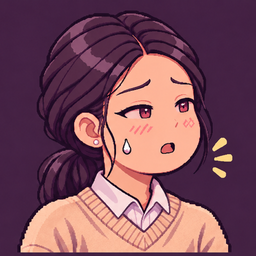
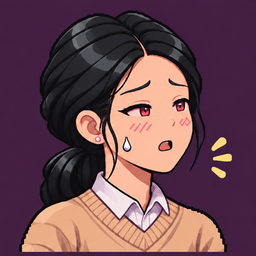
큰 그림을 앉은 모습에 맞추고 강사님 그림체 통일, 대화 시 큰 그림
- 봉경 스프라이트·초상 8장: 검정 머리, 카멜 니트, 갸름한 얼굴·턱선
  (2×2 시트로 한 번에 고쳐 네 표정이 같게)
- 배경: 윤찬 보라 머리 → 검정, 건희 머리를 스프라이트 색으로 (머리 영역만)
- 강사님 장면 그림: 배경 크롭에 직접 그려 넣고 달라진 픽셀만 떼어 얹음
  (배경과 같은 그림체·조명·그림자, 픽셀 자리 일치)
- 강사님에게 말을 걸면 용의자처럼 배경이 어두워지고 큰 그림이 뜸
  (대사창 작은 초상 삭제)
- 디자인 기록 세션 10

diff --git a/components/game/GameScreen.tsx b/components/game/GameScreen.tsx
@@ -63,6 +63,8 @@ export function GameScreen({ view, actions }: { view: GameView; actions: GameAct
   // 사람과 대화하는 동안(질문 입력·생각 중·답변) 그 사람을 화면 가운데 크게 보여 준다.
   const talking = !done && !closeup && !card && !!target && (dialog.kind === "edit" || dialog.kind === "thinking" || dialog.kind === "answer");
   const talker = target ? suspectOf(target) : null;
+  // 강사님처럼 말만 하는 인물: 관찰문 대사창에 큰 그림을 함께 띄운다 (용의자 대화와 같은 모양).
+  const npcFigure = !done && !closeup && !card && dialog.kind === "narrate" ? dialog.figure : undefined;
   const lastMsg = target ? [...view.messages].reverse().find((m) => m.suspectId === target) : undefined;
   const answerMsg = dialog.kind === "answer" ? view.messages.find((m) => m.id === dialog.messageId) : undefined;
   // 방금 받은 답변에 자료나 새 단서 카드가 딸려 왔으면 대사창 위에 물건 모양으로 띄운다.
@@ -140,7 +142,7 @@ export function GameScreen({ view, actions }: { view: GameView; actions: GameAct
       play("tick");
       setCardId(null);
       setTeacherTalks((n) => n + 1);
-      return setDialog({ kind: "narrate", key: `teacher-${Date.now()}`, title: view.scenario.victim, text: TEACHER.lines[teacherTalks % TEACHER.lines.length], image: { src: TEACHER.portrait, alt: view.scenario.victim } });
+      return setDialog({ kind: "narrate", key: `teacher-${Date.now()}`, title: view.scenario.victim, text: TEACHER.lines[teacherTalks % TEACHER.lines.length], figure: { src: TEACHER.figure, alt: `${view.scenario.victim}의 표정` } });
     }
     play("tick");
     setEmptyClicks((n) => n + 1);
@@ -291,7 +293,7 @@ export function GameScreen({ view, actions }: { view: GameView; actions: GameAct
   }
 
   return (
-    <div className={`game ${done ? "is-done" : ""} ${talking ? "is-talking" : ""}`}>
+    <div className={`game ${done ? "is-done" : ""} ${talking || npcFigure ? "is-talking" : ""}`}>
       <div className="desktop-only px" role="alert">
         <p>방과후 탐정단은 데스크톱 화면에서 플레이한다.</p>
         <p className="dim">창을 넓히거나 컴퓨터로 접속해 줘.</p>
@@ -328,6 +330,12 @@ export function GameScreen({ view, actions }: { view: GameView; actions: GameAct
           <figure key={talker.id} className={`talk-figure ${dialog.kind === "thinking" ? "is-thinking" : ""}`} aria-label={`${talker.name} · 대화 중`}>
             {/* eslint-disable-next-line @next/next/no-img-element -- 픽셀 스프라이트 원본 그대로 */}
             <img key={talkEmotion} src={talker.sprites[talkEmotion]} alt={`${talker.name}의 표정`} draggable={false} className={talkEmotion === "flustered" && dialog.kind === "answer" ? "shake" : ""} />
+          </figure>
+        )}
+        {npcFigure && (
+          <figure key={npcFigure.src} className="talk-figure" aria-label={npcFigure.alt}>
+            {/* eslint-disable-next-line @next/next/no-img-element -- 픽셀 스프라이트 원본 그대로 */}
+            <img src={npcFigure.src} alt={npcFigure.alt} draggable={false} className="shake" />
           </figure>
         )}
         {toast && <div className="toast px" role="status">{toast}</div>}

diff --git a/app/globals.css b/app/globals.css
@@ -127,10 +127,9 @@ img { image-rendering: pixelated; }
 .hit.suspect:hover .name-tag, .hit.suspect:focus-visible .name-tag { opacity: 1; }
 /* 강사님(배경 인물): 배경 그림에 없어 스프라이트를 얹는다. 말만 거는 대상이라 질문 커서를 쓴다. */
 .cursor-look .hit.npc { cursor: url("/game/cursor-ask.svg") 6 6, pointer; }
-/* 바닥 접지 그림자: 방의 푸른 조명에 맞춘 보랏빛 그림자 (합성 느낌 줄이기) */
-.hit.npc::before { content: ""; position: absolute; left: 4%; right: 4%; bottom: -3%; height: 12%; border-radius: 50%; background: radial-gradient(closest-side, rgb(46 44 92 / 0.55), rgb(46 44 92 / 0.28) 55%, transparent); pointer-events: none; }
-.hit.npc::after { content: ""; position: absolute; left: 18%; right: 14%; bottom: -1%; height: 5%; border-radius: 50%; background: radial-gradient(closest-side, rgb(30 28 66 / 0.55), transparent); pointer-events: none; }
-.npc-sprite { position: absolute; z-index: 1; inset: 0; width: 100%; height: 100%; object-fit: contain; object-position: bottom; pointer-events: none; user-select: none; }
+/* 강사님 그림: 배경과 같은 자리·같은 크기로 겹치는 투명 그림 (그림자 포함). 대화 중에는 배경처럼 어두워진다. */
+.npc-art { position: absolute; pointer-events: none; user-select: none; }
+.is-talking .npc-art { filter: brightness(0.55) saturate(0.85); transition: filter 200ms; }
 .hit.npc:hover .name-tag, .hit.npc:focus-visible .name-tag { opacity: 1; }
 .hit.npc .name-tag { left: auto; right: 0; translate: 0 -0.3cqi; } /* 화면 오른쪽 끝이라 이름표를 오른쪽에 맞춘다 */
 .hud .px-chip { font-size: clamp(14px, 1.1cqi, 19px); min-height: clamp(32px, 2.6cqi, 44px); padding: 2px clamp(10px, 0.8cqi, 14px); }

diff --git a/lib/scene/classroom.ts b/lib/scene/classroom.ts
@@ -88,9 +88,12 @@ export const classroom: Scene = {
  * 자리: 오른쪽 유리문 앞에 쭈그려 앉아 있다.
  */
 export const TEACHER = {
-  hit: { x: 92.9, y: 46.5, w: 7, h: 19.5 },
-  sprite: "/game/sprites/teacher-crouch.png",
-  portrait: "/game/portraits/teacher-flustered.png",
+  hit: { x: 92, y: 49.5, w: 7, h: 19.8 },
+  /** 장면에 얹는 그림의 자리. 배경 그림(1536×864)의 x 1250~1536, y 250~679를 그대로 덮는 투명 PNG라 배경과 픽셀이 맞는다. */
+  art: { x: 81.38, y: 28.94, w: 18.62, h: 49.65 },
+  crouch: "/game/sprites/teacher-crouch.png",
+  /** 말을 걸면 용의자처럼 화면 가운데 크게 뜨는 그림. */
+  figure: "/game/sprites/teacher-flustered.png",
   lines: [
     "어, 어머… 이게 무슨 일이야. 머릿속이 하얘서 아무 생각이 안 나요…",
     "미, 미안해요! 저도 지금 정신이 하나도 없어서… 조금만 있다가요.",

diff --git a/components/game/Stage.tsx b/components/game/Stage.tsx
@@ -35,10 +35,12 @@ export function Stage(props: { view: GameView; scene: Scene; target: string | nu
         </button>
       ))}
       {scene.id === "classroom" && (
-        <button className="hit npc" style={box(TEACHER.hit)} aria-label={view.scenario.victim} onClick={fire({ type: "teacher" })}>
-          <img className="npc-sprite" src={TEACHER.sprite} alt="" draggable={false} />
-          <span className="name-tag" aria-hidden="true">{view.scenario.victim}</span>
-        </button>
+        <>
+          <img className="npc-art" style={box(TEACHER.art)} src={TEACHER.crouch} alt="" draggable={false} />
+          <button className="hit npc" style={box(TEACHER.hit)} aria-label={view.scenario.victim} onClick={fire({ type: "teacher" })}>
+            <span className="name-tag" aria-hidden="true">{view.scenario.victim}</span>
+          </button>
+        </>
       )}
       {small.map(spot)}
     </div>

diff --git a/components/game/DialogBox.tsx b/components/game/DialogBox.tsx
@@ -10,7 +10,7 @@ export type Draft = { question: string; clueId: string | null };
 export const emptyDraft: Draft = { question: "", clueId: null };
 
 export type Dialog =
-  | { kind: "narrate"; key: string; title: string; text: string; image?: { src: string; alt: string; item?: boolean }; found?: "new" | "again"; hint?: boolean }
+  | { kind: "narrate"; key: string; title: string; text: string; image?: { src: string; alt: string; item?: boolean }; figure?: { src: string; alt: string }; found?: "new" | "again"; hint?: boolean }
   | { kind: "prompt"; key: string; text: string }
   | { kind: "notice"; key: string; text: string; used?: number } // 탐정 속마음 안내 (되묻기·반려·오류). 써 둔 질문은 남아 있다. used: 이번에 쓴 질문 수(연속 무차감 뒤 1회)
   | { kind: "edit" }
